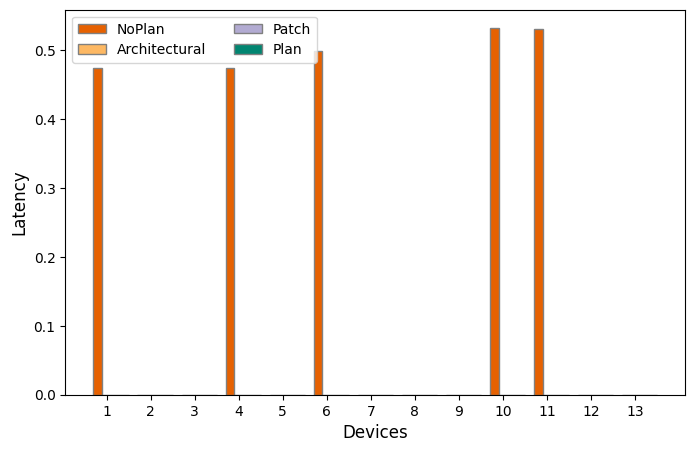
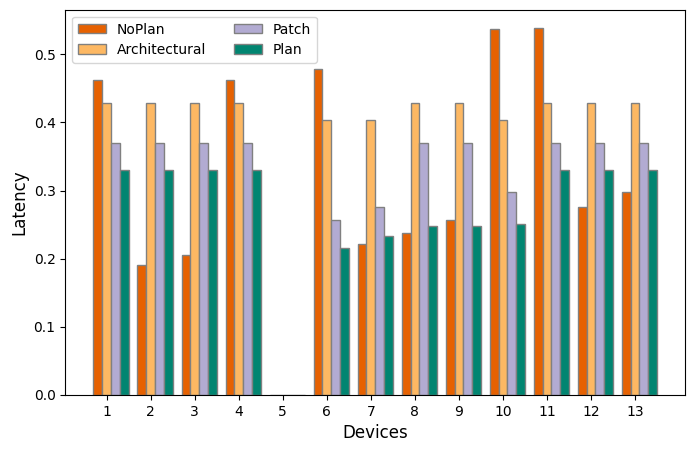
experiment

diff --git a/experiments/security.py b/experiments/security.py
@@ -1,7 +1,7 @@
 import json, os, sys
 import pandas as pd
 import numpy as np
-from statistics import mean
+from statistics import mean, median
 from matplotlib import pyplot as plt
 import warnings
 warnings.filterwarnings("ignore")
@@ -200,18 +200,19 @@ def plot_qos(file_security_metrics,file_qos_metrics,file_plan,folder_plans,file_
     for d in devices:
         deviceID = d["deviceId"]
         
-        noplan.append(mean(noplandict[deviceID]))
+        noplan.append(median(noplandict[deviceID]))
         arch.append(mean(archdict[deviceID]))
         patch.append(mean(patchdict[deviceID]))
         plan.append(mean(plandict[deviceID]))
-        
-    # for i in range(0,len(noplan)):
-    #     if noplan[i] != 0 and arch[i] == 0:
-    #         arch[i] = mean(arch)
-    #         patch[i] = mean(patch)
-    #         plan[i] = mean(plan)
-    #     elif noplan[i] == 0 and arch[i] != 0:
-    #         noplan[i] = max(noplan)
+    
+    if net_tag=="HCnet":
+        for i in range(0,len(noplan)):
+            if (noplan[i] != 0 or arch[i] != 0) and patch[i] == 0:
+                patch[i] = mean(patch)
+            if (noplan[i] != 0 or arch[i] != 0) and plan[i] == 0:
+                plan[i] = mean(plan)
+            if noplan[i] == 0 and arch[i] != 0:
+                noplan[i] = mean(noplan)
     
     # set width of bar 
     barWidth = 0.2
@@ -262,10 +263,9 @@ if __name__=="__main__":
             folder_plans = "planning/metrics-per-device/realnetwork/"
         else:
             file_qos_metrics = "planning/qos-metrics.csv"
-            folder_plans = "planning/metrics-per-device/"
+            folder_plans = "planning/metrics-per-device/healthcare/"
     
         plot_securitymetric(file_metrics_all,file_plan,net_tag,"avg_risk")
         plot_securitymetric(file_metrics_all,file_plan,net_tag,"num_paths")
         
-        ## TODO CHECK
         plot_qos(file_metrics_all,file_qos_metrics,file_plan,folder_plans,file_network,"avg_latency",net_tag)
